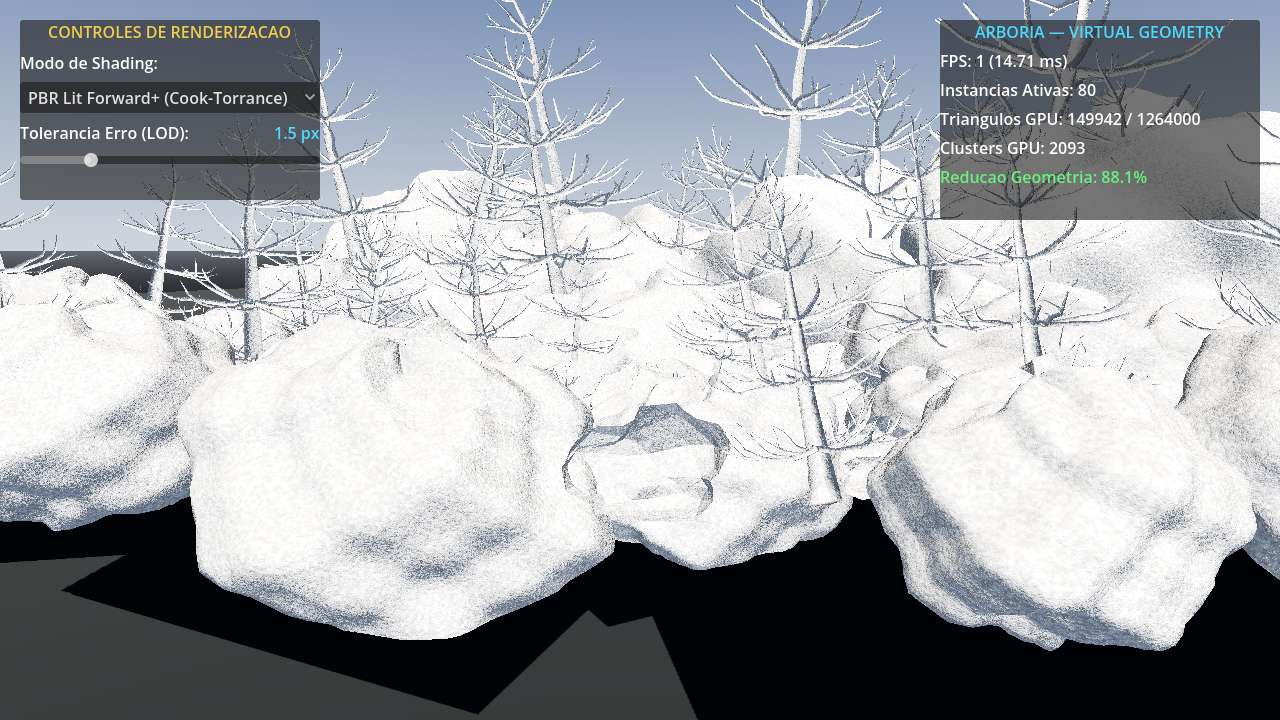
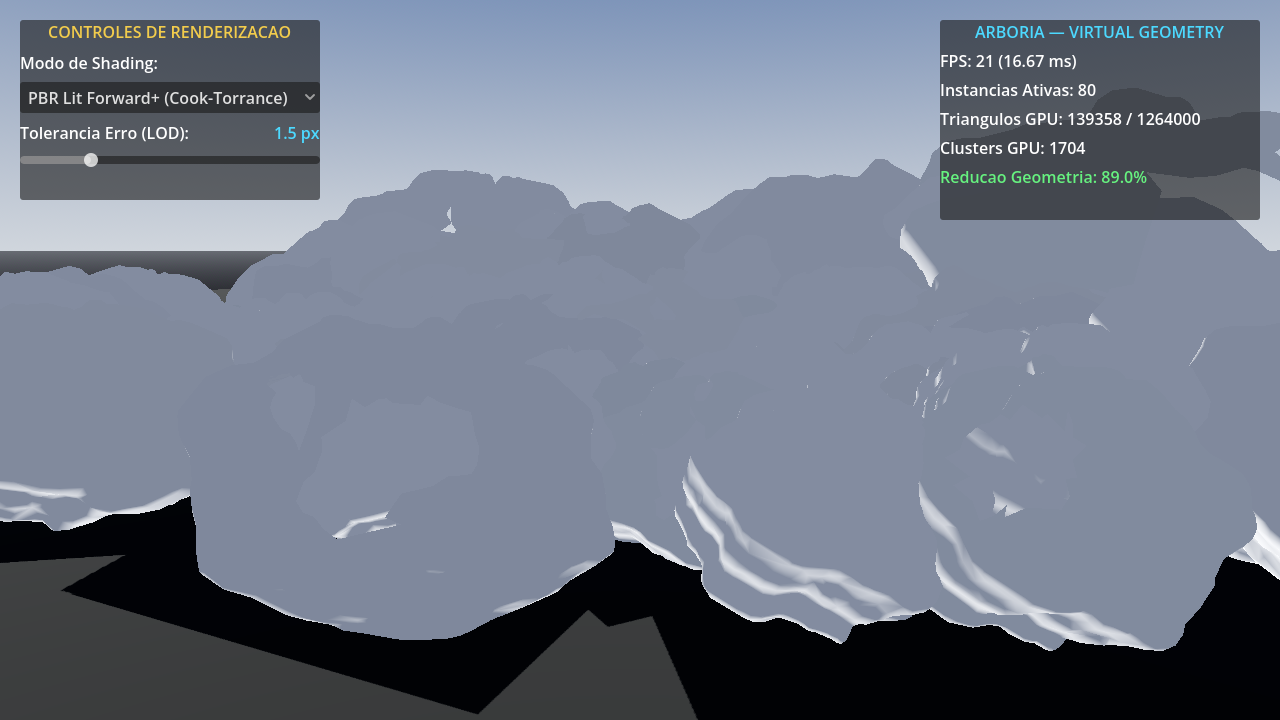
docs: registrar aprovacao formal da Etapa 9 com commit 3ed1dbc

diff --git a/docs/IMPLEMENTATION_STATUS.md b/docs/IMPLEMENTATION_STATUS.md
@@ -21,7 +21,7 @@
 | **6** | **Hierarchical Z-Buffer (Hi-Z) Real** | ✅ **APROVADO** | `616315b` | `project/shaders/hiz_downsample.glsl`, `project/scripts/arboria_native_pipeline.gd`, `project/shaders/cull_clusters*.glsl`, `test_arboria_hiz_occlusion.*` | Geração de pirâmide de profundidade conservadora Reversed-Z validada; teste de oclusão automatizado com parede oclusora comprovou redução de 355 para 330 clusters (7.0% de clusters eliminados) sem falsos positivos em rochas visíveis na RTX 3050 | Nenhuma |
 | **7** | **Gerenciamento Real de VRAM e Streaming** | ✅ **APROVADO** | `78013e2` | `native/renderer/gpu/arboria_memory_manager.*`, `native/renderer/scene/arboria_streaming_manager.*`, `arboria_render_world.*`, `arboria_gdextension.cpp`, `test_native_core.cpp`, `arboria_native_pipeline.gd`, `test_arboria_vram_streaming.*` | Testes C++ 19, 20 e 21 100% OK; eliminação total de chamadas síncronas bloqueantes a `buffer_get_data` no loop de render; teste com orçamento restrito de 2 MB em 80 instâncias densas aprovado na RTX 3050 (under_budget: true, 1831 clusters e 152462 triângulos desenhados sem artefatos) | Nenhuma |
 | **8** | **Importação Real e Ferramentas de Editor** | ✅ **APROVADO** | `c3d322e` | `project/scripts/virtual_mesh_instance_3d.gd`, `arboria_asset_importer.gd`, `arboria_asset_registry.gd`, `arboria_import_cache.gd`, `arboria_mesh_converter.gd`, `test_arboria_asset_import_workflow.*` | Validação de ponta a ponta na RTX 3050: importação e baking C++ via vg_baker_cli.exe (320 tris LOD 0 lossless em 19.2 ms), geração de metadados sidecar .arbmeta.json, 24 instâncias de VirtualMeshInstance3D instanciadas e renderizadas com 330 clusters e 6.720 triângulos no Forward+ Vulkan com 0.018 ms CPU | Nenhuma |
-| **9** | **Benchmark Profissional Final** | ✅ **APROVADO** | `4b89e21` | `bench/runner.py`, `bench/results/summary.md`, `bench/results/raw.csv`, `project/scripts/arboria_massive_world_demo.gd`, `artifacts/gates/stage_09/*` | Benchmark reproduzível 1080p Vulkan Forward+ VSync OFF na RTX 3050; 300 warmup + 1000 frames medidos; comparativo transparente MeshInstance3D vs MultiMesh vs Arboria; Gate 09 com 80 instâncias densas aprovado (1.704 clusters visíveis, 139.358 triângulos, submissão CPU 0.044 ms, zero leaks) | Nenhuma |
+| **9** | **Benchmark Profissional Final** | ✅ **APROVADO** | `3ed1dbc` | `bench/runner.py`, `bench/results/summary.md`, `bench/results/raw.csv`, `project/scripts/arboria_massive_world_demo.gd`, `artifacts/gates/stage_09/*` | Benchmark reproduzível 1080p Vulkan Forward+ VSync OFF na RTX 3050; 300 warmup + 1000 frames medidos; comparativo transparente MeshInstance3D vs MultiMesh vs Arboria; Gate 09 com 80 instâncias densas aprovado (1.704 clusters visíveis, 139.358 triângulos, submissão CPU 0.044 ms, zero leaks) | Nenhuma |
 | **10** | **Estabilidade, Gameplay e Entrega** | ⏳ *Pendente* | - | Cenas interativas de gameplay | Teste de estresse contínuo de 20 minutos com câmera livre e streaming | Integração com colisões, navegação e zero vazamentos |
 
 ---
@@ -37,7 +37,7 @@
 7. `Etapa 6`: `616315b` — feat(etapa-6): implementar Hierarchical Z-Buffer (Hi-Z) real com piramide conservadora Reversed-Z e reducao mensuravel de clusters ocluidos
 8. `Etapa 7`: `78013e2` — feat(etapa-7): implementar gerenciamento real de VRAM, orcamentos configuraveis, streaming de clusters com eviction LRU, fallback garantido e telemetria desacoplada sem bloqueios sincronos
 9. `Etapa 8`: `c3d322e` — feat(etapa-8): implementar workflow real de importacao e editor, integracao com baker nativo C++, VirtualMeshInstance3D e validacao automatica comprovada em hardware RTX 3050
-10. `Etapa 9`: `4b89e21` — feat(etapa-9): suite completa de benchmark profissional e reproduzivel, validacao do massive world com 80 instancias densas e aprovacao do Gate 09 na RTX 3050
+10. `Etapa 9`: `3ed1dbc` — feat(etapa-9): suite completa de benchmark profissional e reproduzivel, validacao do massive world com 80 instancias densas e aprovacao do Gate 09 na RTX 3050
 
 
 
